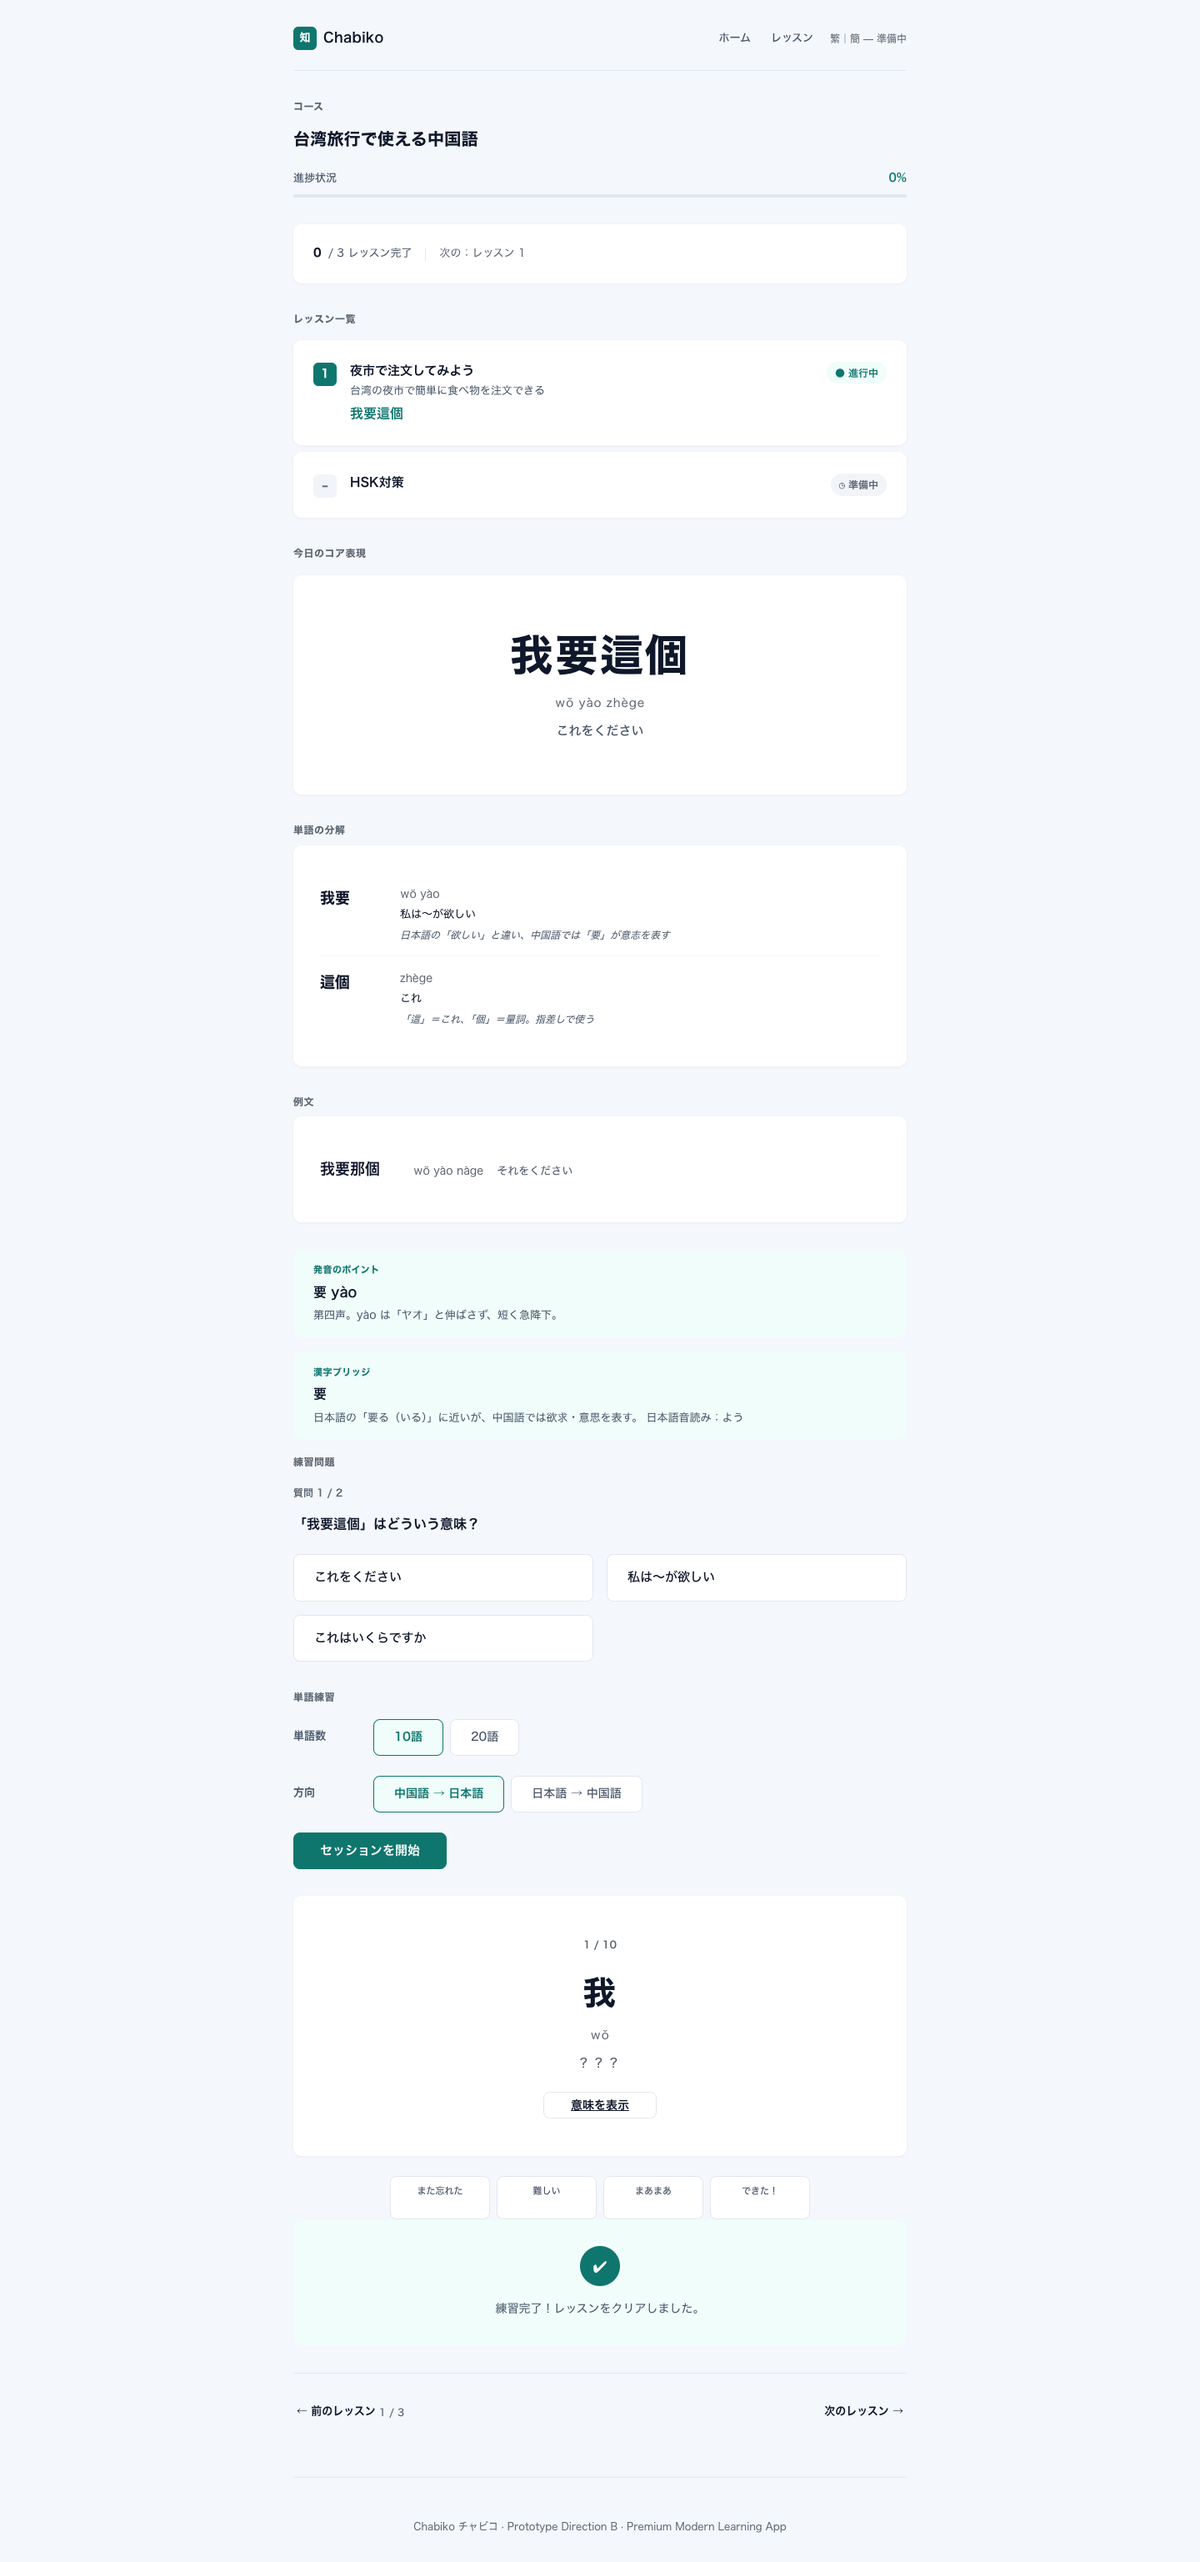
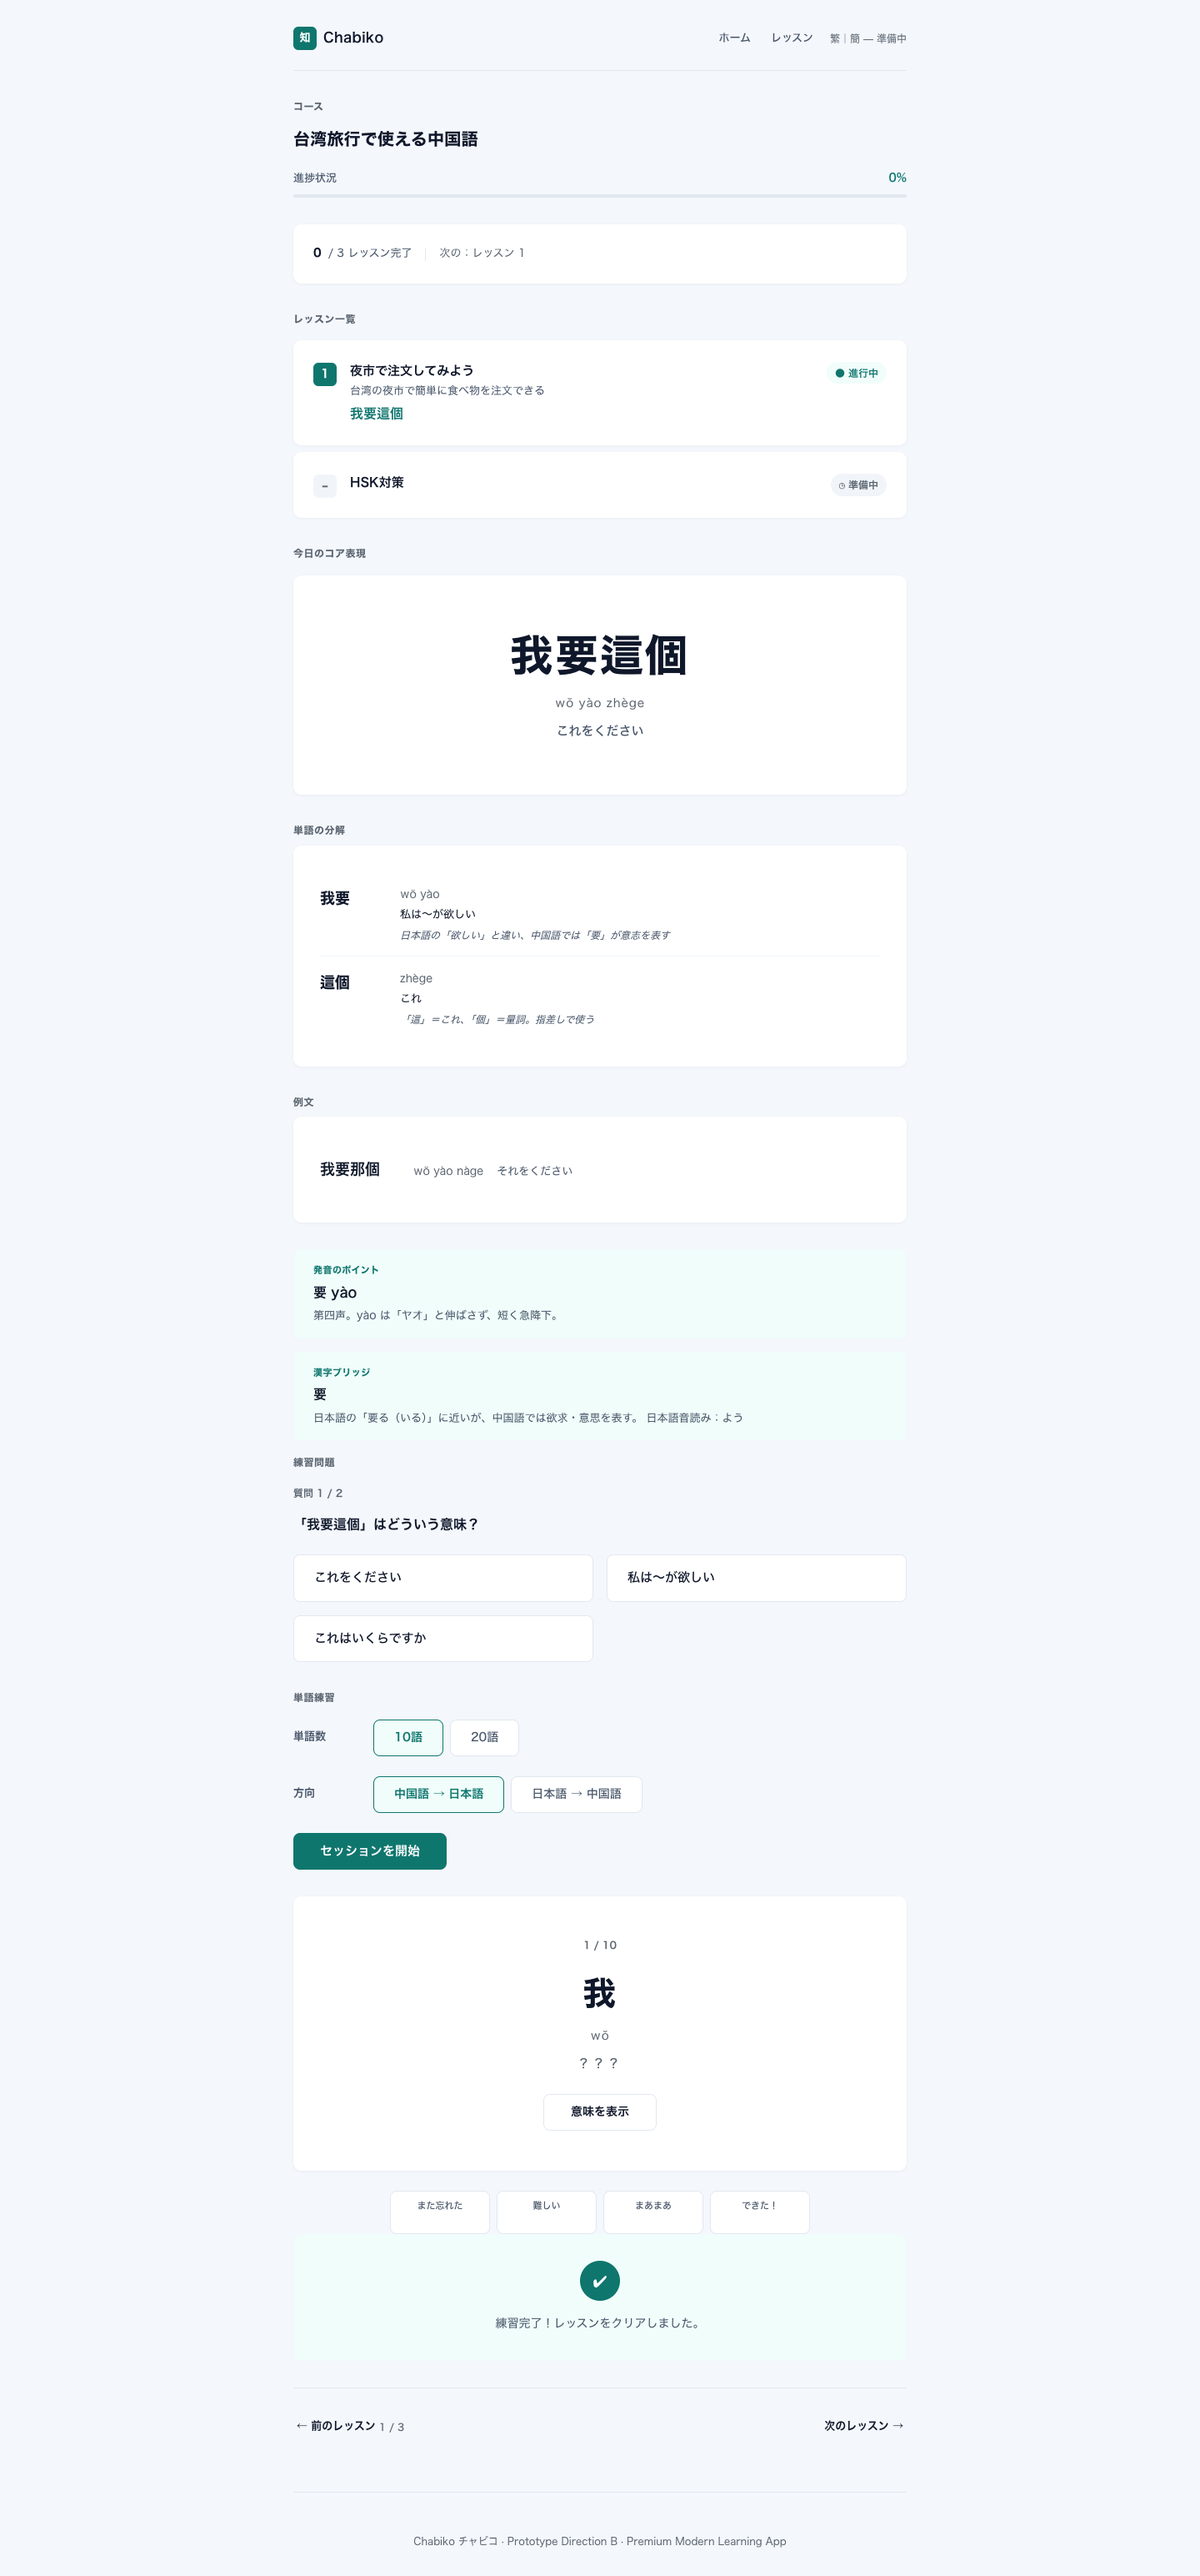
fix: make .vocab-card__action display inline-flex for <a> min-height support

diff --git a/docs/design/prototypes/direction-b-learning-app.html b/docs/design/prototypes/direction-b-learning-app.html
@@ -777,6 +777,11 @@
     color: var(--color-text);
     cursor: pointer;
     transition: all 0.15s ease;
+    display: inline-flex;
+    align-items: center;
+    justify-content: center;
+    text-decoration: none;
+    box-sizing: border-box;
   }
   .vocab-card__action:hover {
     border-color: var(--color-accent);
